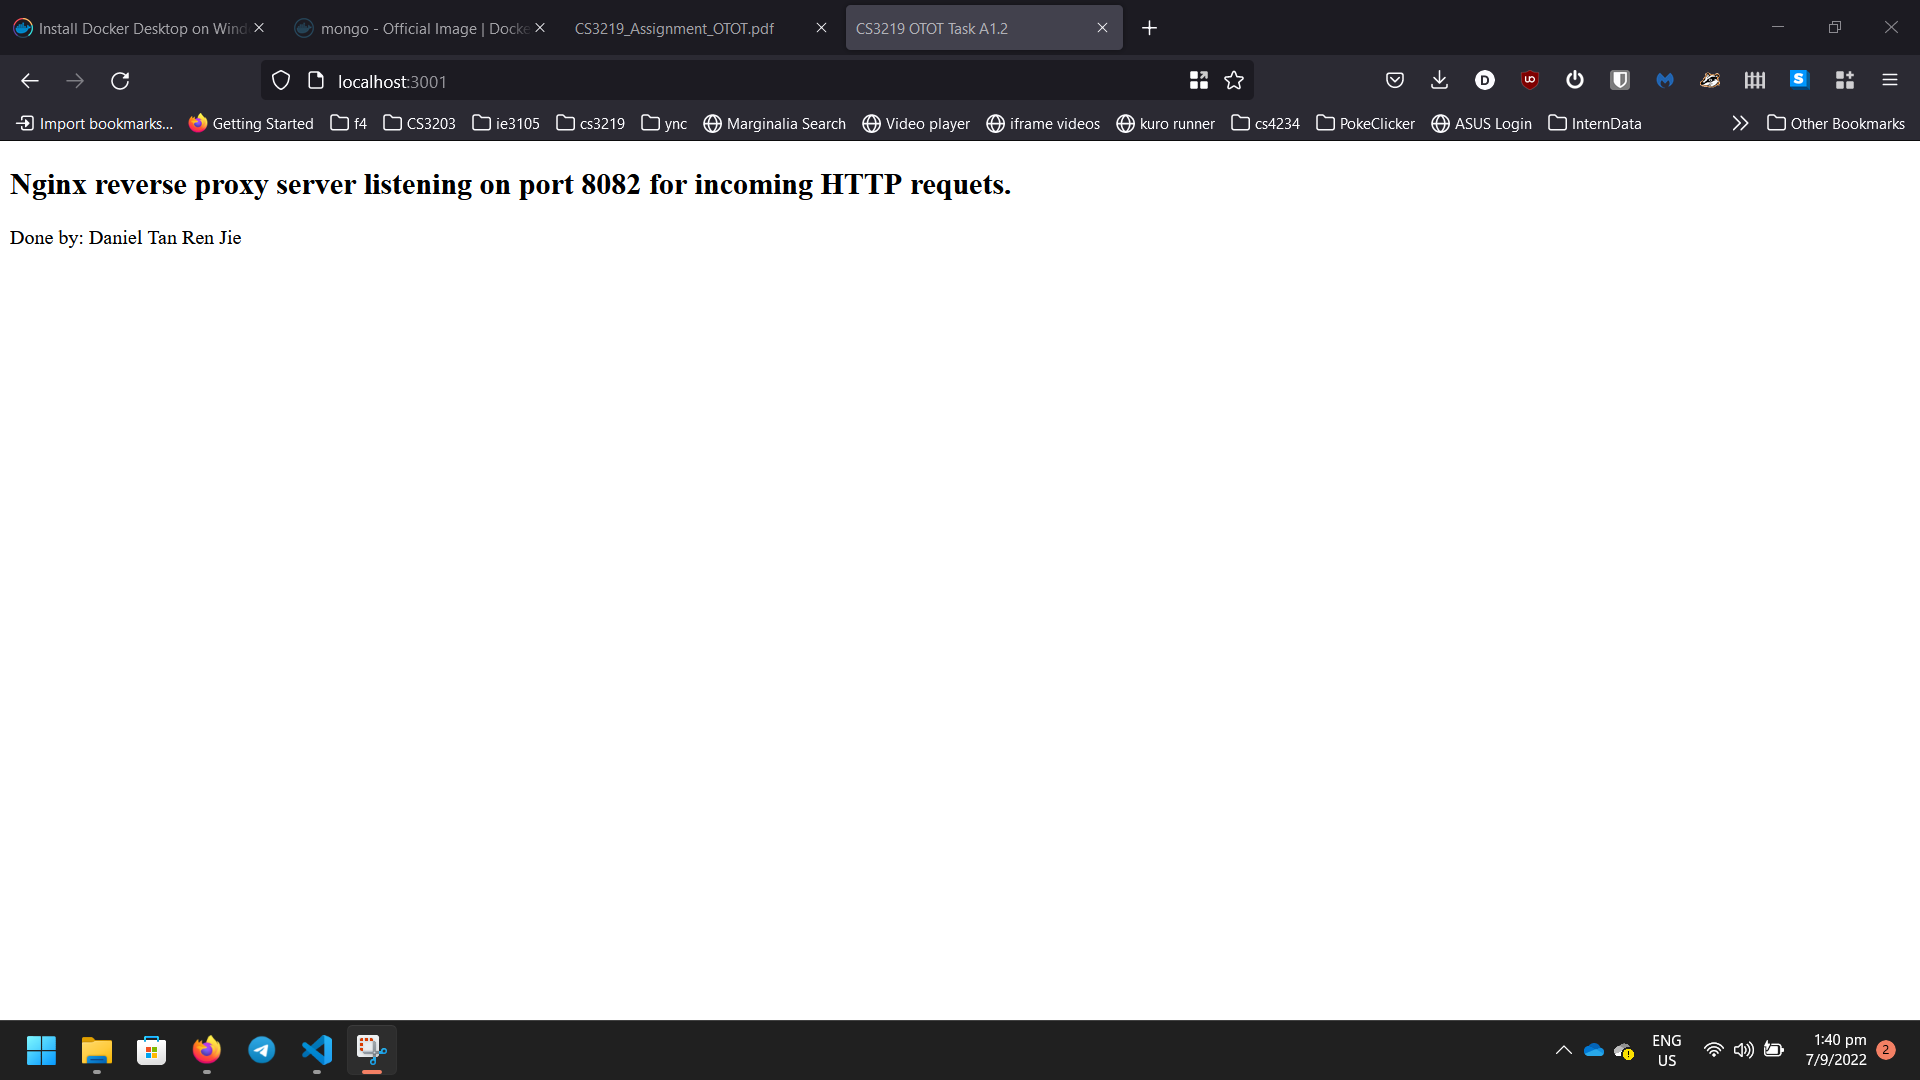
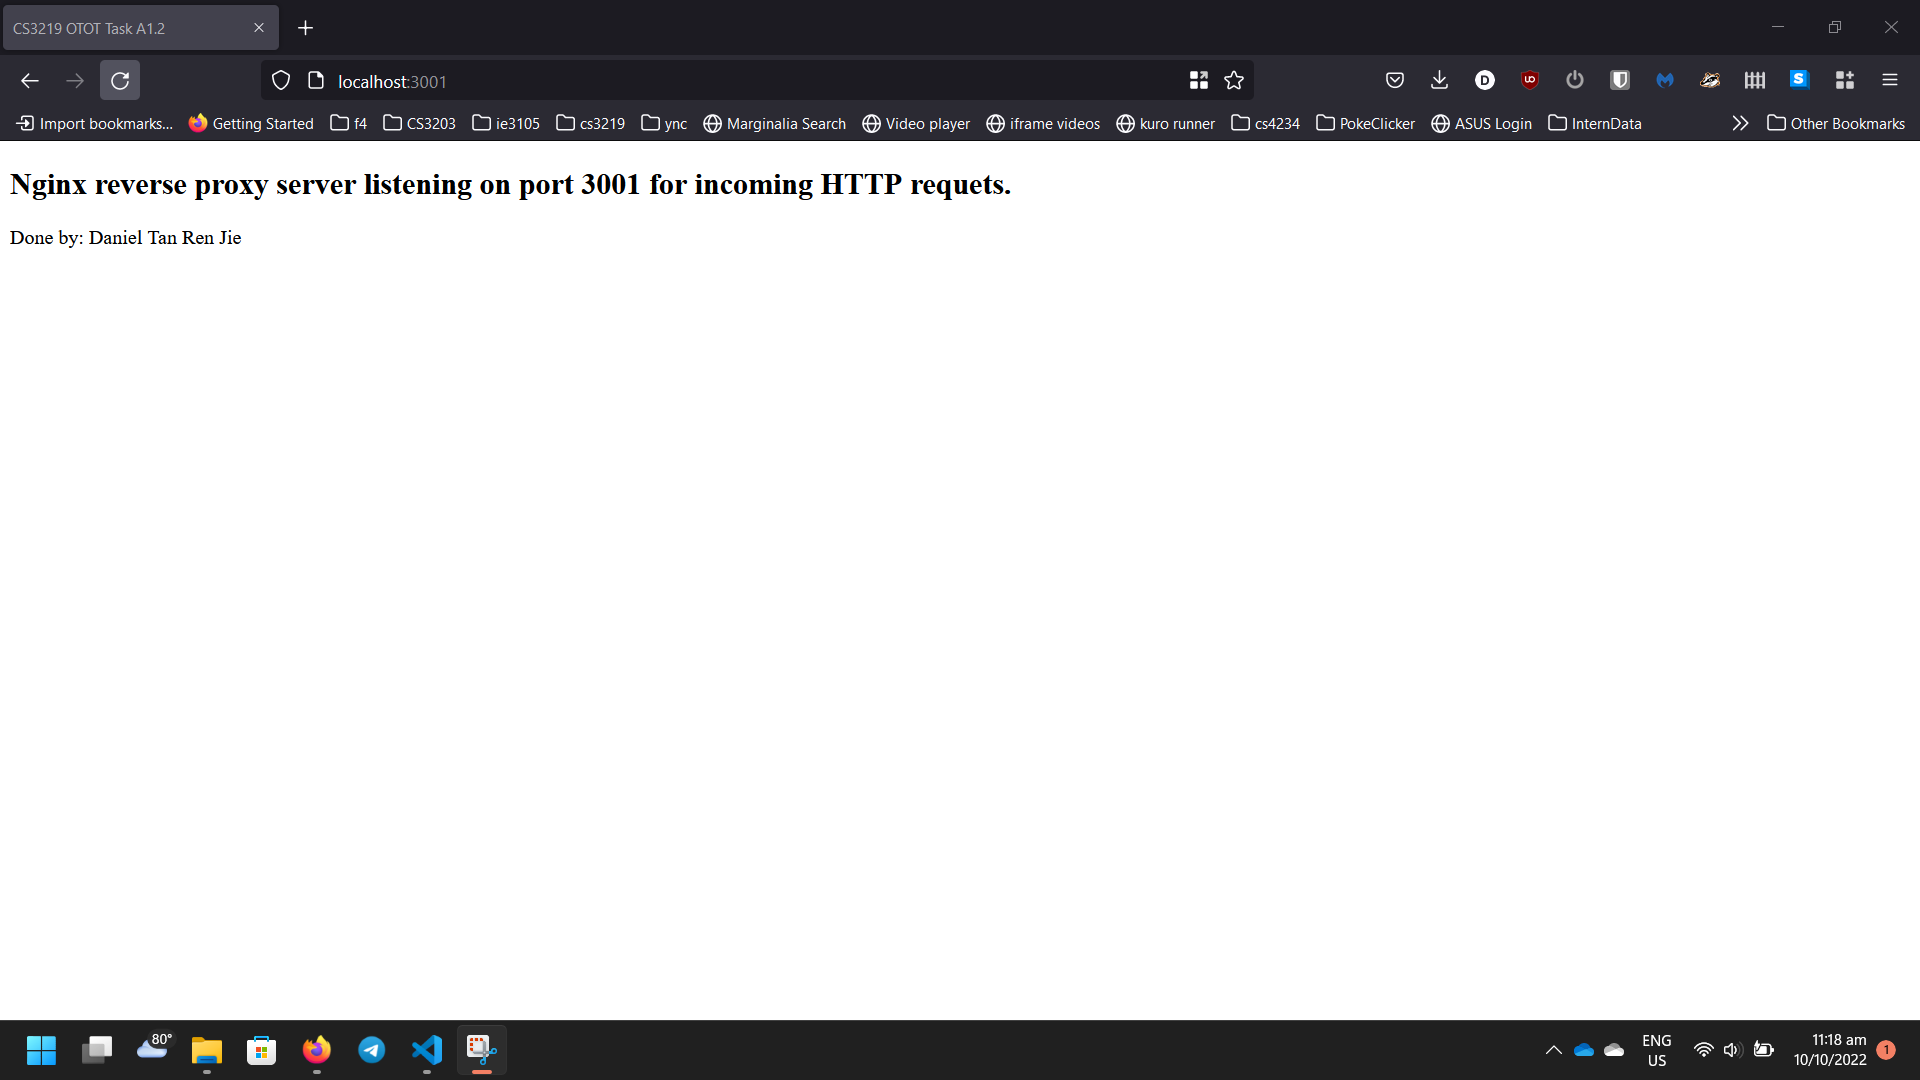
completed

diff --git a/nginx-sample/src/index.html b/nginx-sample/src/index.html
@@ -6,7 +6,7 @@
 </head>
 <body>
     <!-- TODO: Replace port number -->
-    <h2>Nginx reverse proxy server listening on port 8082 for incoming HTTP requets.</h1>
+    <h2>Nginx reverse proxy server listening on port 3001 for incoming HTTP requests.</h1>
     <!-- TODO: Insert Name here -->
     <p1>Done by: Daniel Tan Ren Jie </p1>
 </body>

diff --git a/docs.md b/docs.md
@@ -1,3 +1,5 @@
+OHNO task 2 was supposed to be reverse proxy
+
 Submit a PDF document as proof of completion into the OTOT Task A1 assignment on Canvas. The document should contain the following information:  
 a. Student Name and Matriculation Number  
 Daniel Tan Ren Jie  
